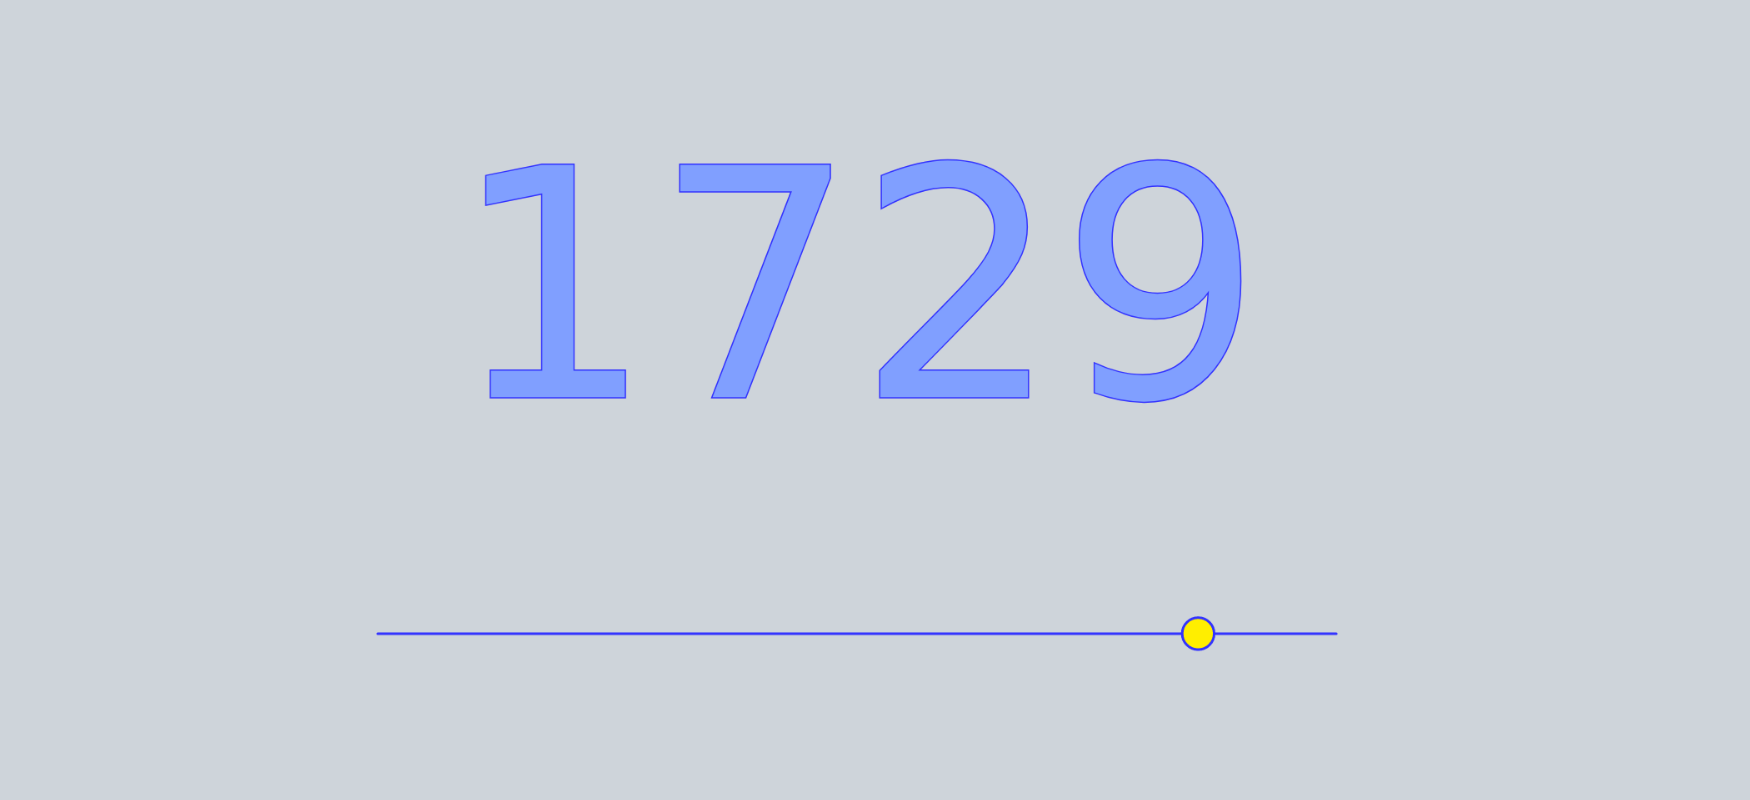
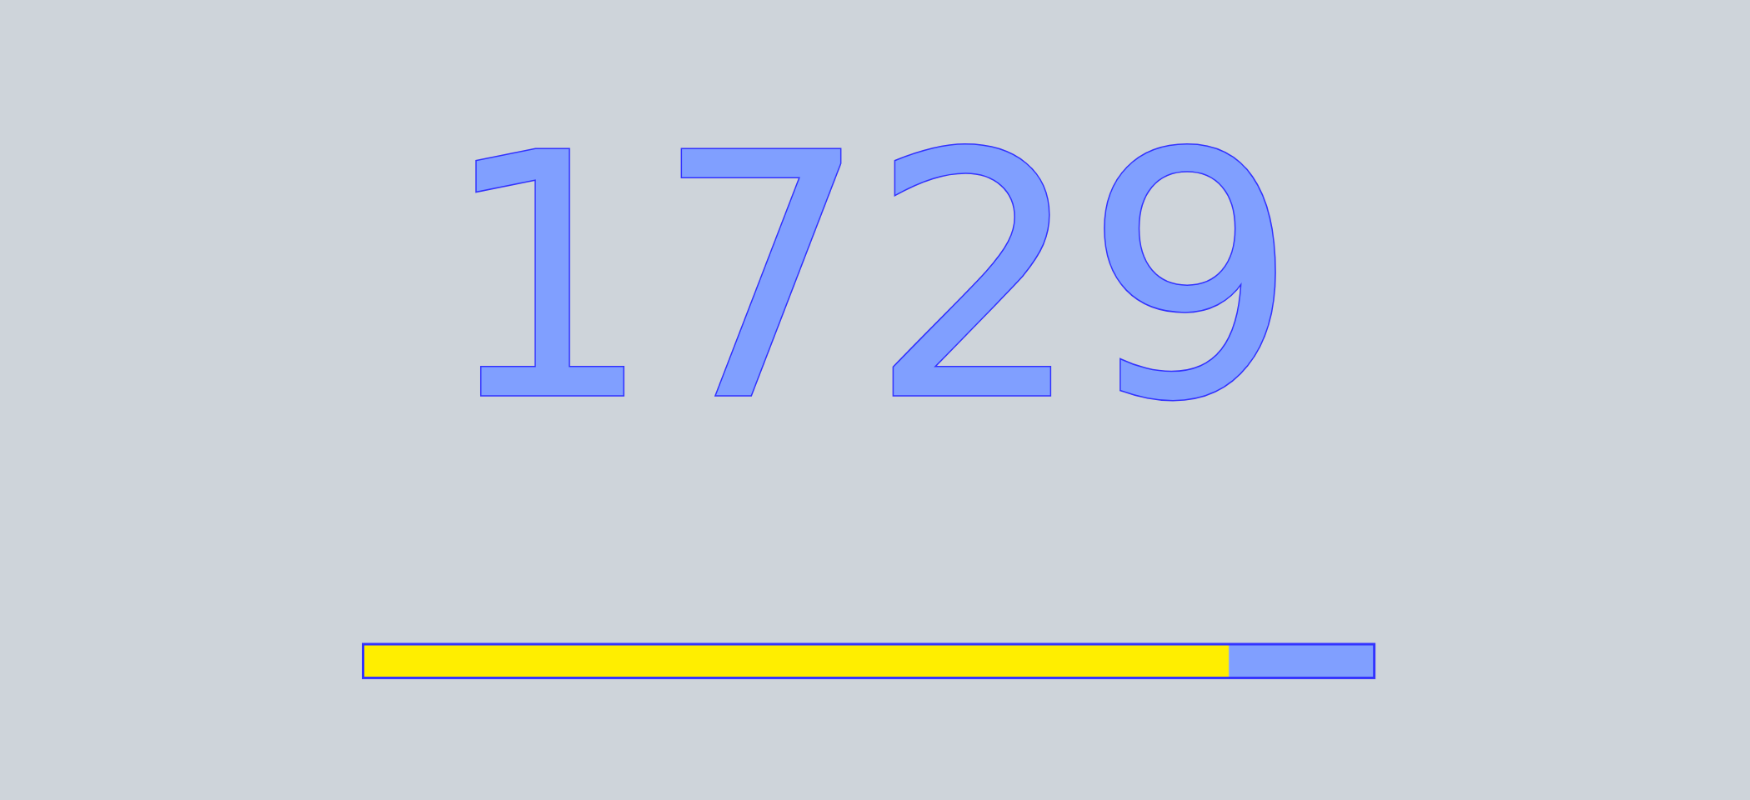
Separate guidance comments from model comments
Also, update the p5 template image, and add Glen's big guidance comment
at the top of the template.

diff --git a/src/visualizers-workbench/P5VisualizerTemplate.ts b/src/visualizers-workbench/P5VisualizerTemplate.ts
@@ -1,3 +1,17 @@
+// === p5 Visualizer Template ===
+// This file can be used as a template for writing a new p5 visualizer. It is
+// also a simple working Visualizer in its own right. It includes comments,
+// formatted like this one, that explain what each part of a Visualizer
+// is and does. You don't need to include these comments in your own
+// Visualizer---but you should include ordinary comments, of course! You should
+// also include the documentation comments, which are formatted like this:
+//
+//   /** md
+//   ...
+//   **/
+//
+// These comments get compiled into the Visualizer's user guide page
+
 import p5 from 'p5' // we need the p5.Color type to declare top-level colors
 import {P5Visualizer} from '../visualizers/P5Visualizer'
 import {VisualizerExportModule} from '@/visualizers/VisualizerInterface'
@@ -20,17 +34,15 @@ required and commonly used features._
 **/
 
 class P5VisualizerTemplate extends P5Visualizer {
-    // === visualizer name ===
-    // appears in the visualizer list and bundle card titles
-
+    // === Visualizer name ===
+    // Appears in the visualizer list and bundle card titles
     static visualizationName = 'Entries (p5 Template)'
 
-    // === parameters ===
-    // top-level properties that the user can choose while creating the
-    // visualizer bundle. if a parameter is meant to have a default value, we
+    // === Parameters ===
+    // Top-level properties that the user can choose while creating the
+    // visualizer bundle. If a parameter is meant to have a default value, we
     // conventionally use that as the initial value, so we can refer to it when
     // we set the default value below
-
     stepSize = 1
 
     /** md
@@ -42,24 +54,25 @@ class P5VisualizerTemplate extends P5Visualizer {
 integer.)_
          **/
         stepSize: {
-            value: this.stepSize, // default value
+            value: this.stepSize, // === Default value ===
             forceType: 'integer',
             displayName: 'Step size',
             required: true,
         },
     }
 
-    // === internal properties ===
-    // top-level properties that are set and updated while the visualizer is
-    // running, beyond the user's direct control
+    // === Internal properties ===
+    // Top-level properties that are set and updated while the visualizer is
+    // running, beyond the user's direct control. All of these properties will
+    // be initialized during setup, but TypeScript can't infer that, so we have
+    // to give them placeholder values. We use `undefined` as a placeholder for
+    // colors because the function that creates color objects won't be available
+    // until steup
 
-    // navigation state. this property will be initialized during setup, but
-    // TypeScript can't infer that, so we have to give a placeholder value
+    // navigation state
     index = 0
 
-    // palette colors. these will also be initialized during setup, which is our
-    // first chance to create colors. for now, we use `undefined` as a
-    // placeholder value
+    // palette colors
     bgColor: p5.Color | undefined = undefined
     textColor: p5.Color | undefined = undefined
     outlineColor: p5.Color | undefined = undefined
@@ -77,8 +90,9 @@ integer.)_
     }
 
     setup() {
-        // the base setup function includes the `createCanvas()` call that must
-        // appear in every p5 setup function
+        // === Default setup ===
+        // The base class setup function includes the `createCanvas()` call that
+        // must appear in every p5 setup function
         //
         //   https://p5js.org/reference/#/p5/createCanvas
         //
@@ -98,35 +112,42 @@ integer.)_
         this.index = this.seq.first
     }
 
-    // this is where you draw your visualization! look at the examples and the
+    // === Draw here ===
+    // This is where you draw your visualization! Look at the examples and the
     // p5 tutorials and reference to learn about what you can do
     //
     //   https://p5js.org/learn/
     //   https://p5js.org/reference/
     //
-    // you have to implement this method, even if it does nothing. your
+    // You have to implement this method, even if it does nothing. Your
     // visualizer can't be loaded into Numberscope without it
     draw() {
-        // accessing `this.sketch` triggers some consistency checks. by storing
+        // === Local sketch constant ===
+        // Accessing `this.sketch` triggers some consistency checks. By storing
         // its value as a local constant, we avoid redundant checks
         const sketch = this.sketch
 
-        // scale and center the coordinate system; scale the text to fit the
-        // canvas. calculations involving canvas dimensions need to be done
-        // every frame, because the dimensions can change at any time
+        // === Scaling and centering ===
+        // Calculations involving canvas dimensions need to be done every frame,
+        // because the dimensions can change at any time. For this visualizer,
+        // we scale and center the coordinate system, and we scale the text to
+        // fit the canvas.
         const smallDim = Math.min(sketch.width, sketch.height)
         sketch
             .translate(0.5 * sketch.width, 0.5 * sketch.height)
             .textSize(0.2 * smallDim)
 
-        // paint the background. for an animated visualizer, this is often done
-        // as the first drawing step in each frame, wiping out the previous
-        // frame and leaving a blank canvas to draw on
+        // === Background painting ===
+        // For an animated visualizer, painting the background is often the
+        // first drawing step in each frame. It wipes out the previous frame,
+        // leaving a blank canvas to draw on
         sketch.background(this.bgColor as p5.Color)
 
-        // print the current entry. each drawing, setting, and transformation
-        // method returns a reference to the sketch, so you can chain calls as
-        // shown here
+        // === Chaining operations ===
+        // Each sketch operation returns a reference to the sketch, so you can
+        // chain calls like we do above and below
+
+        // print the current entry
         const element = this.seq.getElement(this.index)
         sketch
             .fill(this.textColor as p5.Color)
@@ -137,34 +158,30 @@ integer.)_
         const barScale = 7
         const sqrtDist = Math.sqrt(this.index - this.seq.first)
         const progress = 1 - barScale / (barScale + sqrtDist)
-        const barLength = 0.6 * smallDim
-        const barHeight = 0.02 * smallDim
+        const barLen = 0.6 * smallDim
+        const barWidth = 0.02 * smallDim
         sketch
-            .translate(-0.5 * barLength, 0.2 * smallDim)
+            .translate(-0.5 * barLen, 0.2 * smallDim)
             .noStroke()
             .fill(255, 128 + 128 * progress, 0)
-            .rect(0, 0, progress * barLength, barHeight)
+            .rect(0, 0, progress * barLen, barWidth)
             .fill(this.textColor as p5.Color)
-            .rect(
-                progress * barLength,
-                0,
-                (1 - progress) * barLength,
-                barHeight
-            )
+            .rect(progress * barLen, 0, (1 - progress) * barLen, barWidth)
             .noFill()
             .stroke(this.outlineColor as p5.Color)
-            .rect(0, 0, barLength, barHeight)
+            .rect(0, 0, barLen, barWidth)
 
-        // stop the animation loop
+        // Stop the animation loop
         sketch.noLoop()
     }
 
-    // when the user presses a key while the sketch is in focus, this function
+    // === Event handling ===
+    // When the user presses a key while the sketch is in focus, this function
     // is called to handle the input
     //
     //   https://p5js.org/reference/#/p5/keyPressed
     //
-    // there are similar functions for other input events
+    // There are similar functions for other input events
     //
     //   https://p5js.org/reference/#group-Events
     //
@@ -175,7 +192,8 @@ integer.)_
     keyPressed() {
         const sketch = this.sketch
 
-        // check which key was pressed, and respond accordingly
+        // === Key identification ===
+        // Check which key was pressed, and respond accordingly
         //
         //   https://p5js.org/reference/#/p5/keyCode
         //
@@ -190,13 +208,17 @@ integer.)_
         if (this.index < this.seq.first || this.index > this.seq.last) {
             this.index = oldIndex
         } else {
-            // re-start the animation loop to print the new entry
+            // restart the animation loop to print the new entry
             sketch.loop()
         }
     }
 }
 
+// === Export module ===
+// Putting this at the end of the source file makes it easy for other people
+// to find. Put the visualizer class and a short description string into the
+// export module constructor
 export const exportModule = new VisualizerExportModule(
-    P5VisualizerTemplate, // visualizer class
-    'Step through entries one at a time' // short description
+    P5VisualizerTemplate,
+    'Step through entries one at a time'
 )
